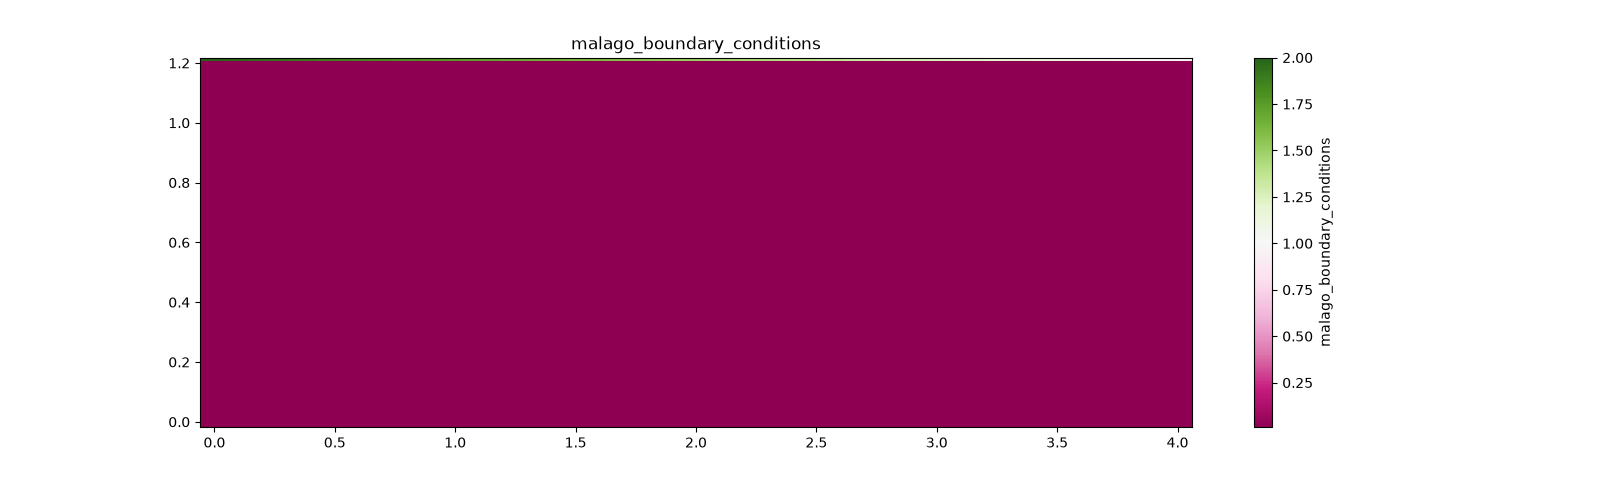
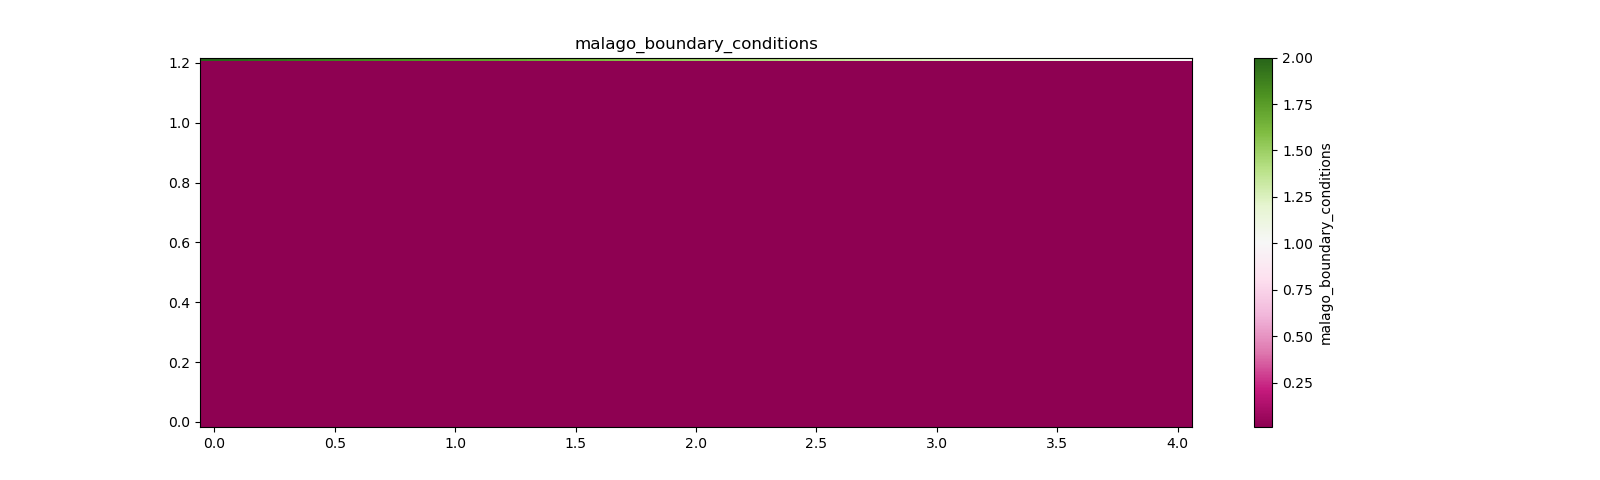
include rain

diff --git a/scripts/create_plots.py b/scripts/create_plots.py
@@ -4,6 +4,8 @@ import imageio.v2 as imageio
 import os
 import tomllib
 import argparse
+import csv
+import datetime
 
 parser = argparse.ArgumentParser()
 parser.add_argument(
@@ -37,6 +39,12 @@ parser.add_argument(
     "--domain",
     action="store_true",
     help="whether to produce plots of the domain"
+)
+
+parser.add_argument(
+    "--rainfall_data",
+    action="store_true",
+    help="whether to produce plots of the rainfall data"
 )
 
 parser.add_argument(
@@ -89,7 +97,6 @@ if args.animate:
 
     for i in range(1, nfig):
         os.remove(f"../plots/timestep_{i}.png")
-
 
 if args.animate_malago:
 
@@ -151,6 +158,24 @@ if args.animate_comparison:
     for i in range(1, nfig):
         os.remove(f"../plots/malago_{i}.png")
 
+
+if args.rainfall_data:
+    rainfall = np.genfromtxt("../data/Clifton_rain_modifed_for_rainfall_event.csv", delimiter=',')[1:, 0]
+    time = np.genfromtxt("../data/Clifton_rain_modifed_for_rainfall_event.csv", delimiter=',')[1:, 1]
+    with open("../data/Clifton_rain_modifed_for_rainfall_event.csv", newline="") as f:
+        reader = csv.reader(f)
+        data = list(reader)
+        rainfall_time = [column[1] for column in data][1:]
+    print(rainfall_time)
+
+    newtime = np.array(range(len(rainfall)))
+    fig, ax = plt.subplots(1,1)
+
+    plt.plot(0.25 * newtime, rainfall)
+    plt.title("Rainfall event on 5th January 2025")
+    plt.xlabel("Hours")
+    plt.ylabel("Rainfall (mm)")
+    plt.show()
 
 
 

diff --git a/AI4Flood/richards_functions.py b/AI4Flood/richards_functions.py
@@ -8,6 +8,9 @@ from matplotlib.ticker import MaxNLocator
 is_gpu = torch.cuda.is_available()
 device = torch.device("cuda:0" if is_gpu else "cpu")
 
+rainfall_data = np.genfromtxt("../data/Clifton_rain_modifed_for_rainfall_event.csv", delimiter=',')[1:, 0]
+time_data = 60 * 0.25 * np.array(range(len(rainfall_data)))
+
 def plot_tensor(x, y, tensor, name):
     fig, ax = plt.subplots(1,1, figsize=(10,10))
     height = ax.pcolormesh(x, y, tensor)
@@ -24,6 +27,13 @@ def plot_tensor_infiltration(x, y, tensor, name):
     cb = plt.colorbar(height, label=name, ax=ax)
     plt.title(name)
     plt.savefig(f"../plots/{name}")
+
+
+def rainfall(t):
+    return np.interp(t, time_data, rainfall_data)
+
+
+
 
 def generate_coords(nx, ny, name="", length=1):
     """Generate csv files containing the x and y coordinate data for a uniform grid

diff --git a/scripts/Malago_road_rain_garden.py b/scripts/Malago_road_rain_garden.py
@@ -116,9 +116,13 @@ model = AIRichardsPC(w1, wm, bias_initializer, x_padded, y_padded, theta_malago,
 t = 0
 i = 0
 start = time.time()
+print("starting timer")
+
 with torch.no_grad():
 
     while t < T:
+
+        print(rainfall(t))
         
         u_new = model(u_old, t, dt, ninner=50)
         t += dt
@@ -129,6 +133,7 @@ with torch.no_grad():
             np.savetxt(f"../results/u_{int(i/ 100)}.csv", u_new.cpu().detach().numpy()[0,0,:,:], delimiter=",")
 
         u_old = u_new.clone()
+        print("in the loop")
 
             
     end = time.time()
